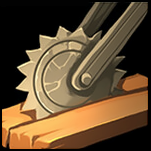
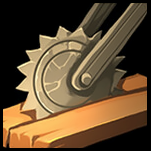
fix(crop): линия справа больше не остаётся в кадре
Скан начинался ровно на краю bbox, а там уже затемнённая кромка линии
(яркость ~28 при пороге 'чёрный' 30) - скан считал, что граница на месте,
и целая линия оставалась в кадре с одной стороны. Теперь скан стартует
на 4 px СНАРУЖИ bbox, доходит до линии и берёт первый пиксель за ней.

Второй случай: если рисунок вплотную к линии, раньше возвращалось
'не найдено' и линия тоже оставалась - теперь граница ставится по кромке
линии.

Плюс перцентиль считается по СМЕЩЕНИЯМ, а не по координатам (для правой
и нижней стороны координата растёт в другую сторону, и перцентиль выбирал
вариант 'не резать').

Замер: сплошная светлая полоса по краю - 0.28% сторон против 0.6% раньше.
Прогон 1130 иконок: все ровно 151x151.

diff --git a/tools/batch_all.py b/tools/batch_all.py
@@ -124,7 +124,9 @@ def crop_by_sheet_line(img: np.ndarray, box) -> np.ndarray:
 
 
 INNER_DARK = 30     # яркость, ниже которой пиксель считается чёрным фоном
-INNER_MAX = 12      # сколько пикселей внутрь разрешено искать чёрное
+INNER_MAX = 14      # сколько пикселей внутрь разрешено искать чёрное
+LINE_MIN = 15       # ярче этого - уже не чёрный фон, а линия или рисунок
+SCAN_OUT = 4        # отступ НАРУЖУ от bbox, чтобы начать скан снаружи линии
 
 
 def inner_rect(img: np.ndarray, box) -> tuple[int, int, int, int]:
@@ -155,35 +157,66 @@ def _inner_scan(img: np.ndarray, box) -> tuple[int, int, int, int]:
     ys = range(y0 + 3, y1 - 2)
     xs = range(x0 + 3, x1 - 2)
 
-    def offset(fixed, step_x, step_y, sx, sy):
-        for d in range(INNER_MAX):
-            x, y = sx + step_x * d, sy + step_y * d
-            if step_x:
-                y = fixed
-            else:
-                x = fixed
-            if not (0 <= x < W and 0 <= y < H):
-                return 0
-            f = img[y, x].astype(np.int16)
-            if f.max() - f.min() > LINE_MAX_CHROMA:
-                return max(0, d - 1)
-            if f.mean() <= INNER_DARK:
-                return d
-        return 0
+    def edge(fixed, step_x, step_y, sx, sy):
+        """Внутренняя кромка линии: идём СНАРУЖИ bbox внутрь.
 
-    def side(fixed, step_x, step_y, sx, sy):
-        vals = [offset(k, step_x, step_y, sx, sy) for k in fixed]
-        vals = [v for v in vals if v > 0]
+        Раньше скан начинался ровно на краю bbox, а там уже может быть
+        затемнённая кромка линии (яркость <= INNER_DARK) - скан решал, что
+        граница на месте, и целая линия оставалась в кадре. Поэтому теперь
+        отступаем наружу на SCAN_OUT, сначала пропускаем чёрный фон, ловим
+        саму линию, и только за ней берём первый чёрный пиксель.
+        """
+        x, y = (sx, fixed) if step_x else (fixed, sy)
+        seen = False
+        for _ in range(SCAN_OUT + INNER_MAX):
+            if not (0 <= x < W and 0 <= y < H):
+                return None
+            f = img[y, x].astype(np.int16)
+            bright = float(f.mean())
+            chroma = int(f.max() - f.min())
+            if not seen:
+                if chroma > LINE_MAX_CHROMA:      # до линии рисунок - нечего искать
+                    return None
+                if bright > LINE_MIN:             # линия (серая/белая) найдена
+                    seen = True
+            else:
+                # линию уже прошли, значит предыдущий пиксель - её кромка
+                if chroma > LINE_MAX_CHROMA:      # рисунок вплотную к линии
+                    return (x - step_x, y - step_y)
+                if bright <= INNER_DARK:          # чёрный фон ЗА линией - граница
+                    return (x, y)
+            x += step_x
+            y += step_y
+        return None
+
+    def side(fixed, step_x, step_y, sx, sy, base):
+        """85-й процентиль СМЕЩЕНИЙ от исходного края (не координат).
+
+        Важно: смещение - это сколько отрезать. Для левой и для правой
+        стороны координата растёт в разные стороны, поэтому перцентиль
+        надо брать по смещениям, иначе с одной стороны он выбирал бы
+        вариант «не резать» и линия оставалась в кадре.
+        """
+        vals = []
+        for k in fixed:
+            p = edge(k, step_x, step_y, sx, sy)
+            if p is None:
+                continue
+            coord = p[0] if step_x else p[1]
+            # +1 - сам найденный пиксель кромки, его тоже отрезаем
+            vals.append(abs(coord - base) + 1)
         if len(vals) < 3:
-            return 0
+            return None
         return int(np.percentile(vals, 85))
 
-    left = side(ys, +1, 0, x0, 0)
-    right = side(ys, -1, 0, x1, 0)
-    top = side(xs, 0, +1, 0, y0)
-    bottom = side(xs, 0, -1, 0, y1)
-    return (max(0, x0 + left), max(0, y0 + top),
-            min(W, x1 - right + 1), min(H, y1 - bottom + 1))
+    left = side(ys, +1, 0, x0 - SCAN_OUT, 0, x0)
+    right = side(ys, -1, 0, x1 + SCAN_OUT, 0, x1)
+    top = side(xs, 0, +1, 0, y0 - SCAN_OUT, y0)
+    bottom = side(xs, 0, -1, 0, y1 + SCAN_OUT, y1)
+    return (max(0, x0 + left) if left is not None else max(0, x0),
+            max(0, y0 + top) if top is not None else max(0, y0),
+            min(W, x1 - right + 1) if right is not None else min(W, x1 + 1),
+            min(H, y1 - bottom + 1) if bottom is not None else min(H, y1 + 1))
 
 
 CANVAS = 151        # итоговый кадр: мелкие иконки добираем фоном до этого размера

diff --git a/README_START.md b/README_START.md
@@ -71,14 +71,21 @@ python3 tools/run_all.py
 ```
 1. detect_frames  -> bbox слота (проходит по центру белой линии)
 2. для КАЖДОЙ строки и КАЖДОГО столбца слота:
-     идём от края внутрь
-     пиксель серый/белый (хрома <= 25)  -> это линия, продолжаем
-     пиксель чёрный (яркость <= 30)     -> граница найдена, стоп
-     пиксель цветной                    -> рисунок, назад (картинку не режем)
+     начинаем НЕ на краю bbox, а на 4 px снаружи от него
+     пока не встретили линию, чёрный фон пропускаем
+     пиксель серый/белый (хрома <= 25, яркость > 15) -> это линия
+     сразу ЗА линией чёрный (яркость <= 30)          -> граница, стоп
+     сразу за линией цветной                         -> рисунок вплотную,
+                                                        граница = кромка линии
 3. смещения по всем строкам -> 85-й процентиль -> граница стороны
 4. вырез 1:1 -> clean_fill -> PNG
 5. кадр добивается до 151x151 РОДНЫМ тёмным фоном листа (без масштабирования)
 ```
+
+Старт на 4 px снаружи — важная деталь: если начинать ровно на краю bbox,
+там уже может быть затемнённая кромка линии (яркость около 28, то есть для
+порога «чёрный» она уже чёрная) — скан решал, что граница на месте, и целая
+линия оставалась в кадре сбоку.
 
 Пятый шаг важен: слоты на разных листах разного размера (133–154 px), поэтому
 мелкие иконки не растягиваются до общего размера, а встают в кадр 151x151,
@@ -94,8 +101,7 @@ python3 tools/run_all.py
 
 | метрика | значение |
 |---|---|
-| серо-белая линия на кромке | **0.17%** (медиана) |
-| полностью чистых иконок | **82.8%** |
+| сплошная светлая полоса по краю | **0.28%** сторон (13 из 4580) |
 | размер кадра | **ровно 151×151 у всех** |
 
 Ключи: `--cut inner` (по умолчанию), `--cut line` (по внешнему краю линии,
